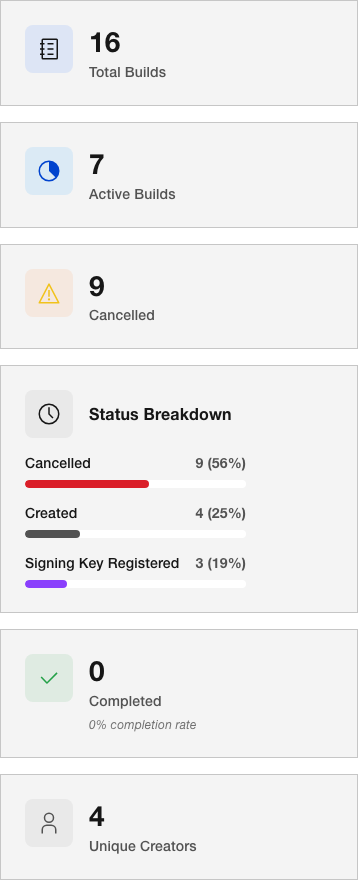
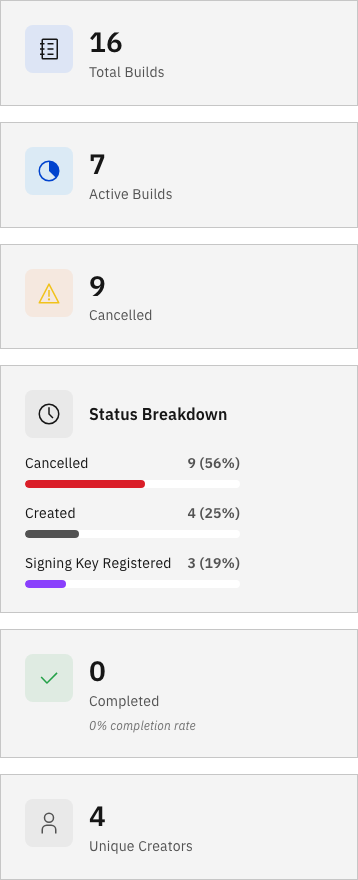
docs: verify baseline review typography

diff --git a/review-assets/build-statistics/README.md b/review-assets/build-statistics/README.md
@@ -19,7 +19,7 @@ The repository has no configured test runner. Browser verification used an exter
 
 ## Capture notes
 
-Desktop captures use a 1600 × 1100 viewport; the narrow-window example uses 390 × 1100. Only the full-page capture expands the app content scroll area to include the complete build lists. Mixed-stage, empty and loading examples render the actual component directly: Build Management currently shows statistics only after loading and when builds exist. Percentages are rounded independently.
+IBM Plex Sans regular and semibold loaded successfully for the baseline capture. Desktop captures use a 1600 × 1100 viewport; the narrow-window example uses 390 × 1100. Only the full-page capture expands the app content scroll area to include the complete build lists. Mixed-stage, empty and loading examples render the actual component directly: Build Management currently shows statistics only after loading and when builds exist. Percentages are rounded independently.
 
 ## Comparisons
 
